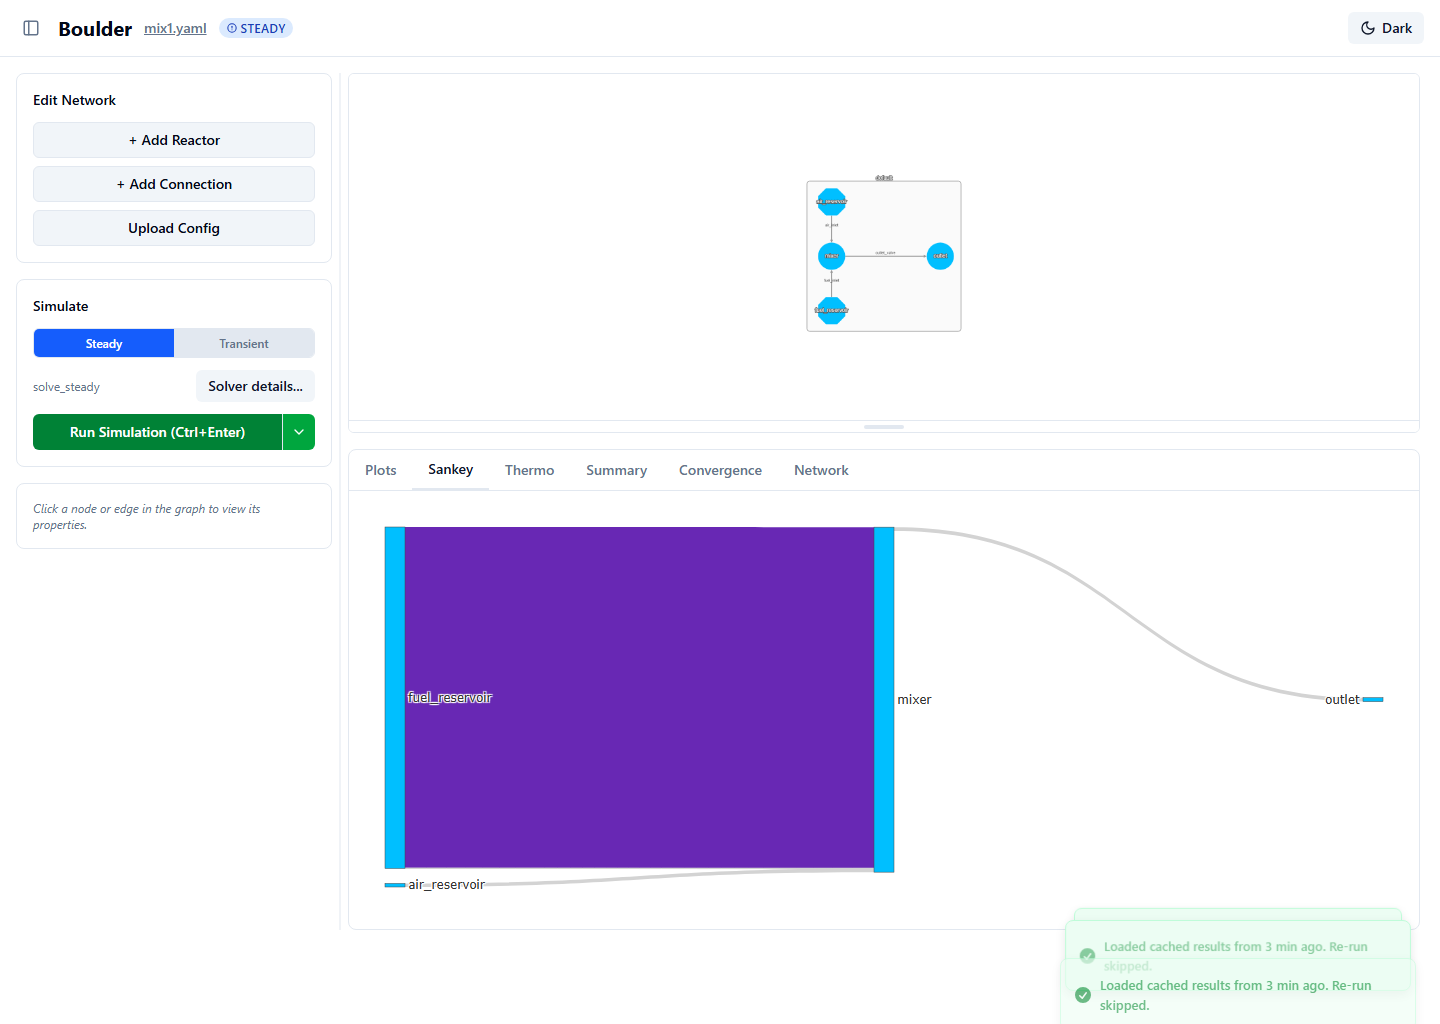
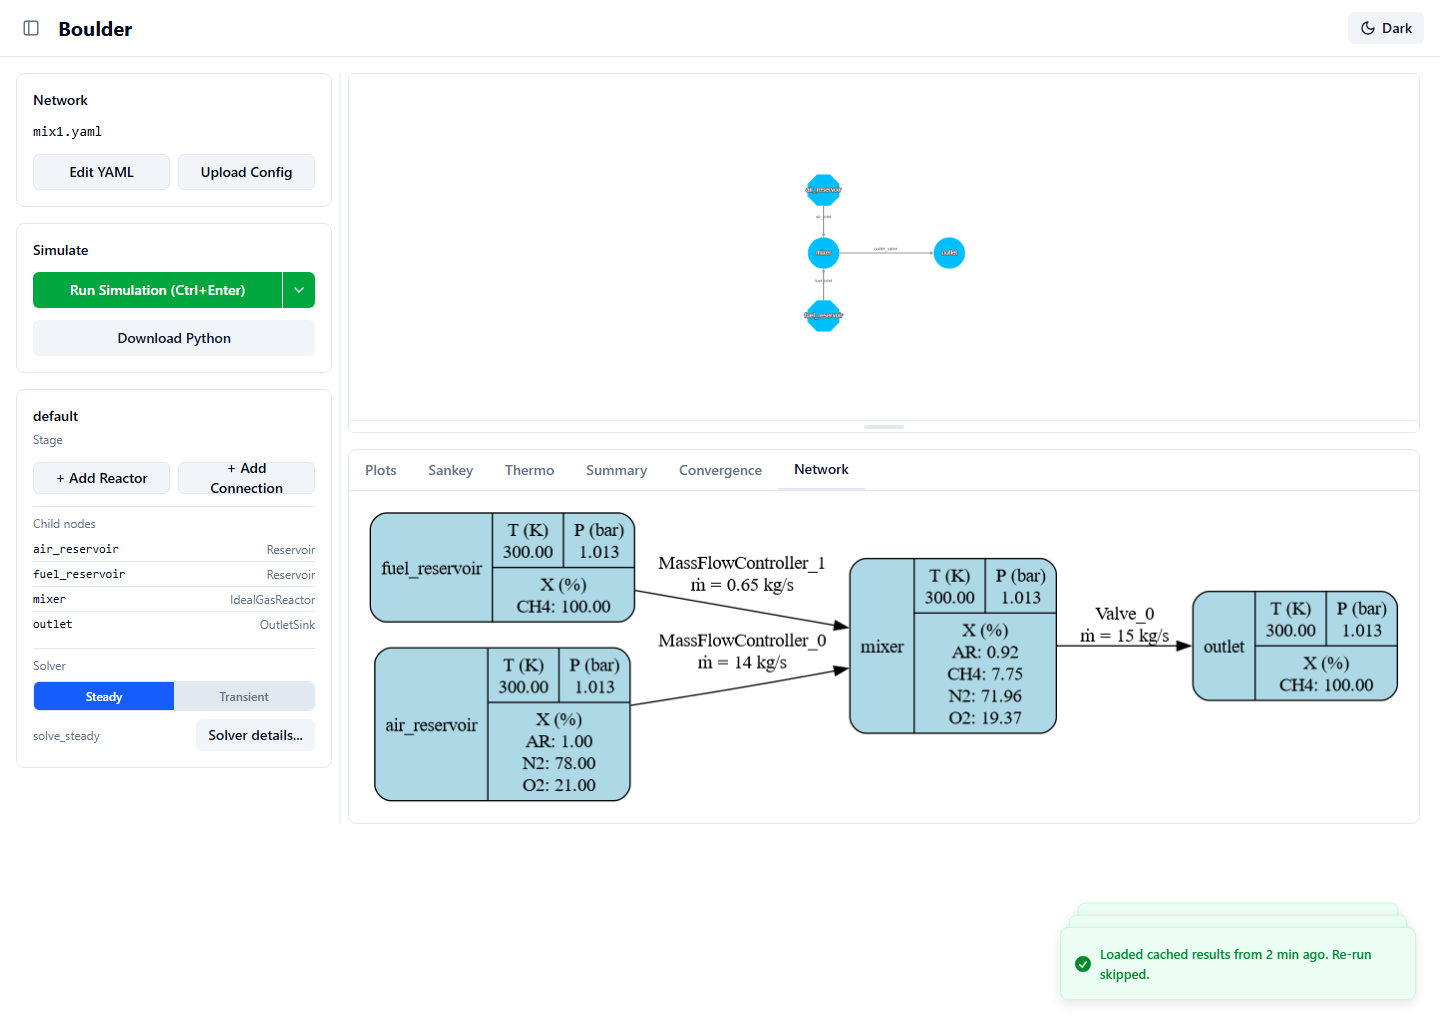
fix: mix1 screenshot shows Network tab, not Sankey
capture_screenshot.py's "network" mode never clicked the Network tab --
it relied on the permanently-visible Cytoscape topology diagram above
the tab strip, leaving whatever results tab was last active (Sankey)
dominating the screenshot. The Network tab is actually a richer
Graphviz-rendered flow diagram with per-stream T/P/composition tables,
which is what this mode is meant to showcase for "Mixer with two inlet
streams" -- now clicked explicitly, matching how "plots" mode clicks
Plots.

Also regenerates continuous_reactor.png with the Scenario pane manually
widened before capture, so the sweep chart has more room (previously
cramped at the pane's default width).

diff --git a/scripts/capture_screenshot.py b/scripts/capture_screenshot.py
@@ -10,9 +10,10 @@ Usage: python scripts/capture_screenshot.py <url> <output_png> [options]
 Modes (--mode):
   plots (default) -- run the single-shot simulation, select a reactor node
     (first node, or --node <id> for a specific one), click the Plots tab.
-  network -- run the single-shot simulation and screenshot as-is; the
-    reactor network diagram is always visible above the tab strip, so no
-    tab click is needed.
+  network -- run the single-shot simulation and click the Network tab (the
+    Graphviz-rendered flow diagram with per-stream T/P/composition tables --
+    richer than the permanently-visible Cytoscape topology diagram above the
+    tab strip, and the point of this mode).
   sweep -- trigger a parameter sweep via the Run-control split button's
     "Run Sweep" mode, wait for it to finish, and screenshot the page (the
     Sweep Results chart renders in the right-hand Scenario pane). Use
@@ -151,11 +152,9 @@ def main() -> int:
                 _select_node(page, args.node)
                 page.get_by_role("button", name="Plots").click()
                 page.wait_for_timeout(1500)
-            # "network" mode: the reactor topology diagram is a permanent
-            # element above the tab strip, always visible regardless of which
-            # tab is active -- no further action needed. (The "Network" tab
-            # itself is an unrelated Graphviz-rendered diagram that requires
-            # an optional dependency; not what this mode is after.)
+            elif args.mode == "network":
+                page.get_by_role("button", name="Network").click()
+                page.wait_for_timeout(1500)
 
         page.screenshot(path=args.output_png, full_page=True)
         browser.close()
